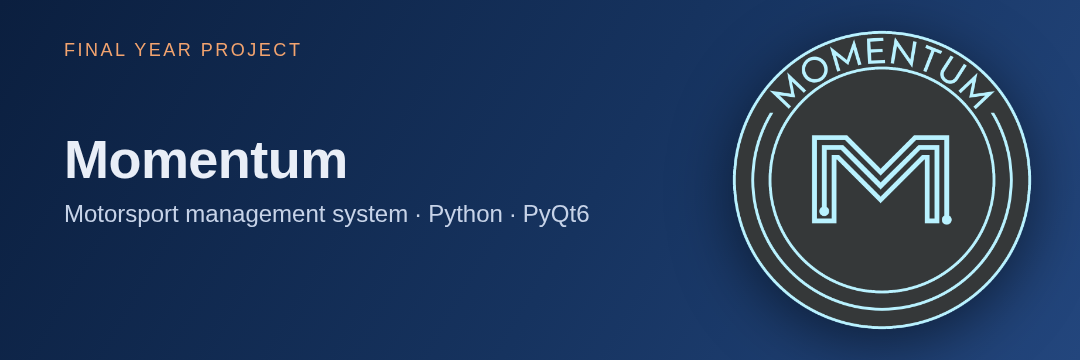
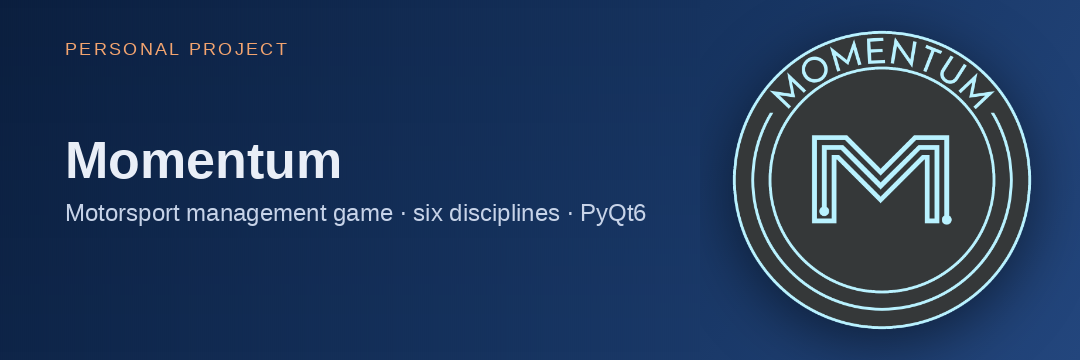
Feature Momentum as the main personal project and link the Momentum repo instead of Final-Project

Changed region(s): [[0.0611, 0.55, 0.6111, 0.6417], [0.0611, 0.3972, 0.3361, 0.5194], [0.0611, 0.1222, 0.275, 0.1528]]

diff --git a/index.html b/index.html
@@ -427,6 +427,40 @@
           <article class="project">
             <img
               class="thumb"
+              src="assets/covers/momentum.png"
+              alt="Momentum motorsport management system"
+              loading="lazy"
+              width="540"
+              height="180"
+            />
+            <div class="content">
+              <h3 class="project-title">Momentum - Motorsport Management Game</h3>
+              <p class="muted project-desc">
+                Single-player management game across six racing disciplines, from single
+                seaters to drag and endurance. Teams, drivers, staff, money and car
+                development feed a real-time race engine with tyre wear, slipstream and
+                pit strategy. Python, PyQt6 and SQLite with 131 automated tests in CI.
+                Grew out of my final year project and is now developed independently.
+              </p>
+              <div class="links">
+                <a
+                  class="btn btn-accent"
+                  href="https://github.com/EoinFitzsimons/Momentum"
+                  target="_blank"
+                  rel="noopener noreferrer"
+                  >View on GitHub</a
+                >
+                <span class="chip">Python</span>
+                <span class="chip">PyQt6</span>
+                <span class="chip">SQLite</span>
+                <span class="chip">pytest</span>
+              </div>
+            </div>
+          </article>
+
+          <article class="project">
+            <img
+              class="thumb"
               src="assets/covers/whatson.png"
               alt="WhatsOn map-based event discovery"
               loading="lazy"
@@ -452,39 +486,6 @@
                 <span class="chip">Node.js</span>
                 <span class="chip">Express</span>
                 <span class="chip">SQL</span>
-              </div>
-            </div>
-          </article>
-
-          <article class="project">
-            <img
-              class="thumb"
-              src="assets/covers/momentum.png"
-              alt="Momentum motorsport management system"
-              loading="lazy"
-              width="540"
-              height="180"
-            />
-            <div class="content">
-              <h3 class="project-title">Momentum - Final Year Project</h3>
-              <p class="muted project-desc">
-                Motorsport management system supporting driver archetypes, race
-                simulation and standings progression. Modular Python and PyQt6
-                architecture, 19/19 automated tests with pytest and pytest-qt, an
-                88-page technical report and a separate ACM Code of Ethics evaluation.
-              </p>
-              <div class="links">
-                <a
-                  class="btn btn-accent"
-                  href="https://github.com/EoinFitzsimons/Final-Project"
-                  target="_blank"
-                  rel="noopener noreferrer"
-                  >View on GitHub</a
-                >
-                <span class="chip">Python</span>
-                <span class="chip">PyQt6</span>
-                <span class="chip">pytest</span>
-                <span class="chip">JSON</span>
               </div>
             </div>
           </article>
@@ -624,11 +625,11 @@
         </div>
 
         <div class="repo-grid" aria-label="Featured public repositories">
-          <article class="repo-card" data-repo="Final-Project">
-            <h3>Momentum (Final-Project)</h3>
-            <p class="muted">Final-year motorsport management system in Python and PyQt6: modular GUI, application and data layers, 19 automated tests and an 88-page technical report.</p>
+          <article class="repo-card" data-repo="Momentum">
+            <h3>Momentum</h3>
+            <p class="muted">Motorsport management game in Python and PyQt6: six disciplines, a three-tier league world, career mode and a real-time race engine, with 131 automated tests in CI.</p>
             <div class="links">
-              <a class="btn btn-accent" href="https://github.com/EoinFitzsimons/Final-Project" target="_blank" rel="noopener noreferrer">Repository</a>
+              <a class="btn btn-accent" href="https://github.com/EoinFitzsimons/Momentum" target="_blank" rel="noopener noreferrer">Repository</a>
               <span class="chip">Python</span>
               <span class="chip">PyQt6</span>
               <span class="chip repo-updated" hidden></span>

diff --git a/README.md b/README.md
@@ -28,19 +28,19 @@ I am interested in roles where technology, systems, data and practical problem-s
 
 ## Selected Projects
 
-### Momentum — Motorsport Management System
+### Momentum — Motorsport Management Game
 
-[Repository](https://github.com/EoinFitzsimons/Final-Project) · Final Year Individual Project
+[Repository](https://github.com/EoinFitzsimons/Momentum) · Personal project, grown from my Final Year Individual Project
 
-A motorsport management system supporting driver archetypes, race simulation and standings progression, built with Python and PyQt6.
+A single-player motorsport management game across six disciplines (single seater, touring, street, drag, rallycross and endurance), built with Python, PyQt6 and SQLite.
 
-* Translated user requirements into system features and workflows, including the race progression logic
-* Designed a modular architecture separating the GUI, application and data layers
-* Wrote 11 unit tests, 7 class tests and 1 integration test with pytest and pytest-qt (19/19 passing), alongside manual system testing mapped to every functional requirement
-* Authored an 88-page technical report covering requirements, architecture and key algorithms with pseudocode and complexity analysis
-* Completed a separate ethical and sustainability evaluation of the design against the ACM Code of Ethics
+* Career mode with a three-tier league world, promotion and relegation, budgets, sponsorship and car development
+* Real-time race engine with driver attributes, tyre wear, slipstream, dirty air and pit strategy, deterministic for a given seed
+* Layered architecture separating the PyQt6 GUI, race logic, services and the SQLite data layer, with a FastAPI interface
+* 131 automated tests with pytest, run in GitHub Actions alongside flake8 linting
+* The final-year version was supported by an 88-page technical report and a separate ethical and sustainability evaluation against the ACM Code of Ethics
 
-**Technologies:** Python · PyQt6 · JSON · pytest
+**Technologies:** Python · PyQt6 · SQLite · FastAPI · pytest · GitHub Actions
 
 ### Daytona 400 — Give(a)Go Hackathon Project
 
